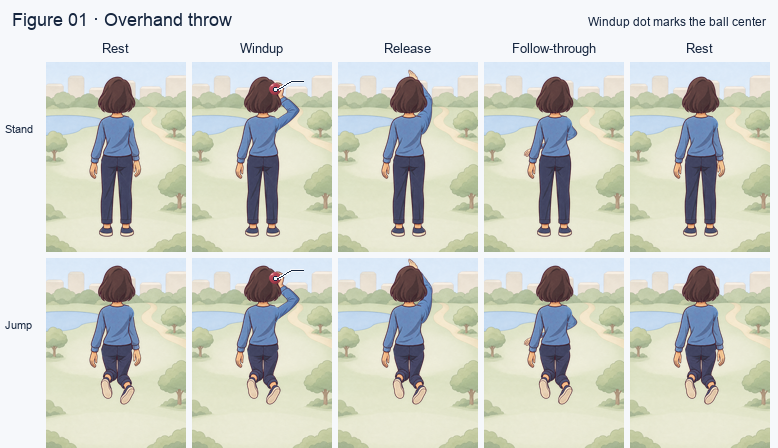
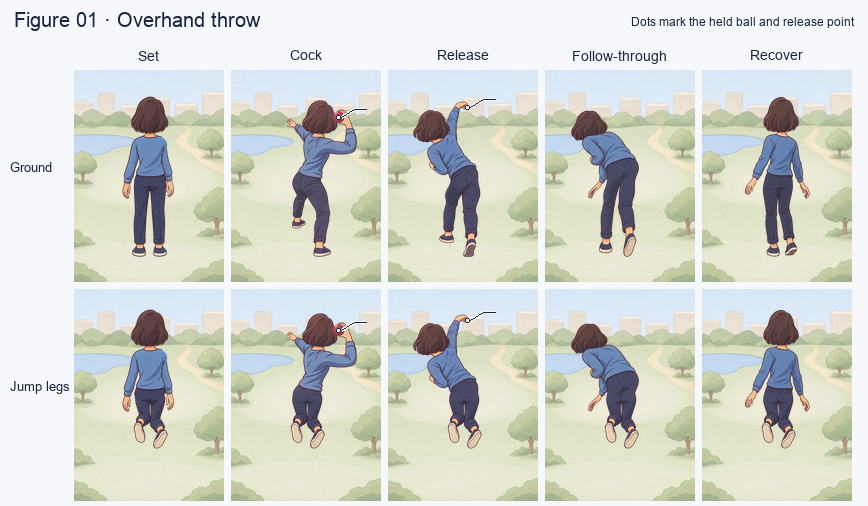
Draw whole-body overhand throw poses for figure 01

diff --git a/design/art/README.md b/design/art/README.md
@@ -10,7 +10,13 @@ The original SVG art remains in `src/art.js` and is recoverable from Git tag `ar
 
 ## Corrupted Capsule fight review
 
-Figure 01’s overhand throw is the approval sample. The cycle reuses the hanging arm for rest and layers the three new right arms under the existing body with either set of legs. The legacy arm-up stays in the rig. All three poses share the shoulder at (566, 393). The windup tucks the ball behind the head at (568, 230), and release starts from the fingertips over the crown at (515, 140). In follow-through the torso occludes the middle of the arm, leaving sleeve visible along the right contour and the cuff and partly hidden hand near the left hip. Follow-through has no ball point. [160 px frame strip](_checks/fight-01-throw.png) · [120 ms loop](_checks/fight-01-throw.gif) · [120 px and full-size shoulder checks](_checks/fight-01-throw-seams.png).
+Figure 01’s whole-body throw is the approval sample in draft PR #189. The existing rest pose is the set. The four drawn poses are cock (140 ms), release (80 ms), follow-through (150 ms), and recover (130 ms), for 500 ms of throw followed by 500 ms at rest in the preview. Cock rolls the shallow leg lift, side-on turn and short stride into one key pose. Each 1024 px upper layer stacks over its matching lower layer or the existing jump legs. The upper layer carries both arms and the ball point. The follow-through and recover points track the empty right hand. [160 px flipbook](_checks/fight-01-throw.png) · [Standing and jump loop](_checks/fight-01-throw.gif) · [Waist checks at full size](_checks/fight-01-throw-seams.png).
+
+Pitching references used for pose and camera:
+
+- Carlos Carrasco’s MLB replay shows the delivery from behind, including the loaded turn and the forward fold after release. [MLB replay](https://www.mlb.com/cut4/carlos-carrasco-unleashed-a-crazy-pitch-c273564308)
+- The rear-oblique photos of Aroldis Chapman and Chris Capuano show the lead arm reaching and the stride taking the weight as the throwing side loads. Both pitchers are left-handed. Figure 01 throws right-handed and takes a much shorter step. [Chapman photo](https://commons.wikimedia.org/wiki/File:Aroldis_Chapman_pitching_in_Game_7_of_the_2016_World_Series.jpg) · [Capuano photo](https://commons.wikimedia.org/wiki/File:Chris_Capuano_of_the_Milwaukee_Brewers_throwing_the_ball.jpg)
+- Gerrit Cole’s MLB slow motion shows the hand coming from behind the head and the hips opening before the hand comes over the top. The Koshien sequence shows the rear foot lifting and stepping back under the body during recovery. [Cole slow motion](https://tenor.com/view/pitching-gerrit-cole-fast-ball-world-series-major-league-baseball-gif-3188694275409995082) · [Koshien sequence](https://commons.wikimedia.org/wiki/File:Pitcher_High_school_baseball_in_Japan_2007.gif)
 
 | Figure | Motion at 120 and 64 px | Shoulder and hip close-ups |
 |---|---|---|
@@ -473,9 +479,14 @@ Option variation: Calm bright overcast light, airy broad slightly irregular tree
 | `characters/fight-01-body.png` | Head, torso, left arm, closed shoulder and full hip seat | 1024×1024 | test batch; see manifest |
 | `characters/fight-01-arm-down.png` | Relaxed hanging right arm | 1024×1024 | shared shoulder pivot |
 | `characters/fight-01-arm-up.png` | Overhead right arm with cupped hand | 1024×1024 | shoulder pivot and ball point in manifest |
-| `characters/fight-01-arm-windup.png` | Cocked overhand windup, ball behind the head | 1024×1024 | shared shoulder pivot and held-ball point |
-| `characters/fight-01-arm-release.png` | Foreshortened forward reach over the crown, fingers together | 1024×1024 | shared shoulder pivot and release point |
-| `characters/fight-01-arm-follow.png` | Right arm sweeps across to the left hip | 1024×1024 | shared shoulder pivot |
+| `characters/fight-01-throw-1-upper.png` | Cock, upper body | 1024×1024 | waist anchor and right-hand ball point in manifest |
+| `characters/fight-01-throw-1-lower.png` | Cock, legs | 1024×1024 | shared waist and feet anchors |
+| `characters/fight-01-throw-2-upper.png` | Release, upper body | 1024×1024 | waist anchor and right-hand ball point in manifest |
+| `characters/fight-01-throw-2-lower.png` | Release, legs | 1024×1024 | shared waist and feet anchors |
+| `characters/fight-01-throw-3-upper.png` | Follow-through, upper body | 1024×1024 | waist anchor and right-hand ball point in manifest |
+| `characters/fight-01-throw-3-lower.png` | Follow-through, legs | 1024×1024 | shared waist and feet anchors |
+| `characters/fight-01-throw-4-upper.png` | Recover, upper body | 1024×1024 | waist anchor and right-hand ball point in manifest |
+| `characters/fight-01-throw-4-lower.png` | Recover, legs | 1024×1024 | shared waist and feet anchors |
 | `characters/fight-01-leg-left.png` | Left hip, trouser leg and shoe | 1024×1024 | test batch; see manifest |
 | `characters/fight-01-leg-right.png` | Right hip, trouser leg and shoe | 1024×1024 | test batch; see manifest |
 | `characters/fight-01-legs-jump.png` | Both legs bent with heels lifted | 1024×1024 | replaces both standing legs for the jump |

diff --git a/docs/TASKS.md b/docs/TASKS.md
@@ -74,7 +74,7 @@ Status: `todo` → `doing` → `review` (report sent to Claude) → `done`. Move
 | DF release | Combined DF1 and DF2 production release | Codex | Done 2026-11-20. Migration `20261120035407` was applied before setting production `EXPO_PUBLIC_DODGE_FIGHT=1`. [Vercel build](https://vercel.com/roy-s-mac-mini/time-capsule/FcvDPUMRduCp5g6cCZJvswirZSPt) from `a5d5022` passed. Acceptance covered Corrupted win, loss and leaving, Taipei 101's 20 HP and 150-second fight and reward, Today's Hunt 3/3 with free throws, and the portrait rigs. The four test accounts and their fixtures were removed and verified at zero. |
 | DF-polish | Dodge fight polish, warning labels and arrow controls, 5/6/7 HP, and the old flick fight retired from the app | Claude (app) / Codex (health migration and release) | Done 2026-11-20. Roy approved [PR #186](https://github.com/royai202600-cyber/time-capsule/pull/186) at `87c6d9f` after green CI. His account squash-merged `c771f6b`. Migration `20261120101629` was applied immediately after the merge and recorded in owner release `72d0d2f`. Vercel's retired `EXPO_PUBLIC_DODGE_FIGHT` variable was removed. Production checks at 375 px in zh/en confirmed a new common 5 HP fight, the shot and wave labels, the moving wave ring, arrows-only controls, and returning players skipping the tutorial. Disposable accounts and their fixtures were removed and verified at zero. |
 | DF-band | Dodge fight: bring back the demo's striped jump band with its text, and remove the attack warning sound | Claude (app) / Codex (review, merge, release) | Done 2026-11-20. Roy approved [PR #187](https://github.com/royai202600-cyber/time-capsule/pull/187) at `23b0963` after green CI. Squash `84fecd4` and owner release `372ced1` shipped the app-only change. The [production build](https://vercel.com/roy-s-mac-mini/time-capsule/BnjoNsX27HNWaoZ5LRwD6XbGRHgQ) passed at 375 px in Traditional Chinese and English. The striped band showed the localized jump label during the moving wave. Audio tracing confirmed silent wave and shot warnings and an audible throw. Both disposable accounts and their related rows were removed and verified at zero. |
-| DF throw art | Overhand throw arm layers for the back-view fight rigs | Codex | Revised figure 01 awaits Roy’s review in [draft PR #189](https://github.com/royai202600-cyber/time-capsule/pull/189). Figures 02–08 and WebP exports follow approval. |
+| DF throw art | Whole-body overhand throw poses for the back-view fight rigs | Codex | Figure 01’s four waist-split poses and 500 ms loop await Roy’s review in [draft PR #189](https://github.com/royai202600-cyber/time-capsule/pull/189). Figures 02–08 and WebP exports follow approval. |
 | HL-plan | Hunt loop plan and demo (`docs/design/hunt-loop.md`, `docs/design/demos/hunt-loop.html`) | Claude → Roy | Roy approved the direction 2026-11-18. Contracts and the wave work list are in the plan. |
 | HL-A1 | Five quest-type pictures for the circular pin window and one faceted pin frame in blue, brass and plum | Codex art (`codex/art-quest-types`) | Roy approved all five pictures and three frame colors at `e91fb44` in [PR #153](https://github.com/royai202600-cyber/time-capsule/pull/153). Green CI gates the art-only squash merge through Roy’s account. |
 | RV-plan | Regional vessels and Landmarks plan (`docs/design/regional-vessels.md`) | Claude → Roy | Updated 2026-11-15: draw what a place is known for, not its packaging; existing vessels unchanged; nine parallel art batches. Still open: Landmark picks, tram colour, whether new vessels start switched off. |

diff --git a/AGENTS.md b/AGENTS.md
@@ -83,6 +83,7 @@ A mobile-first web app for sending someone a sealed **capsule** that can only be
 - To run the production web app locally: `cd mobile && npm install && npm run web` → http://localhost:8088. Legal pages are also copied by `npx expo export --platform web`.
 
 ## Decisions log
+- 2026-11-20: Roy replaced the arm-only throw and code-tilted body with four drawn whole-body poses based on an overhand baseball pitch from behind. Figure 01 uses a compact step and 500 ms of motion. Each upper can stack over its own legs or the existing jump legs. Draft PR #189 awaits Roy’s review before figures 02–08.
 - 2026-11-20: Roy and Claude approved the figure 01 shoulder joins, standing and jump layering, and rest pose in draft PR #189. Roy asked to tuck the windup ball behind the head, reach over the crown at release, and follow through to the opposite hip. The revised figure 01 remains in draft for Roy’s review before figures 02–08.
 - 2026-11-20: After playing the polished fight, Roy asked to bring back the demo's striped jump band with its 「↑ 往上跳！」 text (only the moving rectangle was meant to go; the plum ring stays) and to remove the attack warning sound, since a sound right after a warning feels like being hit. Warnings are silent; sounds mean something landed.
 - 2026-11-20: After playing the live dodge fight, Roy asked for polish. The wave becomes the demo's glowing plum ring spreading across the ground. Warnings keep their short text (a triple shows 「撐住！」), and the control buttons lose theirs, showing only arrows. The how-to card shows only on a player's first fight, with a 「?」 button to reopen it. Hits show 「命中了！/很好！/漂亮！」 and 「被打中了」 with sound effects (no voices). Corrupted Capsule health is common 5, uncommon 6, rare 7, and Today's Hunt 5; Landmark stays 20. Roy chose a rare triple shot that can't be dodged. It never takes the last life and is capped at one per Corrupted fight and two per Landmark fight. Attacks follow weighted tables (see `docs/design/dodge-fight.md`). Gameplay runs on the device because the fight is PvE, it saves engineering time, and lag ruins a reaction game. Claude builds the UI; Codex does the backend.
